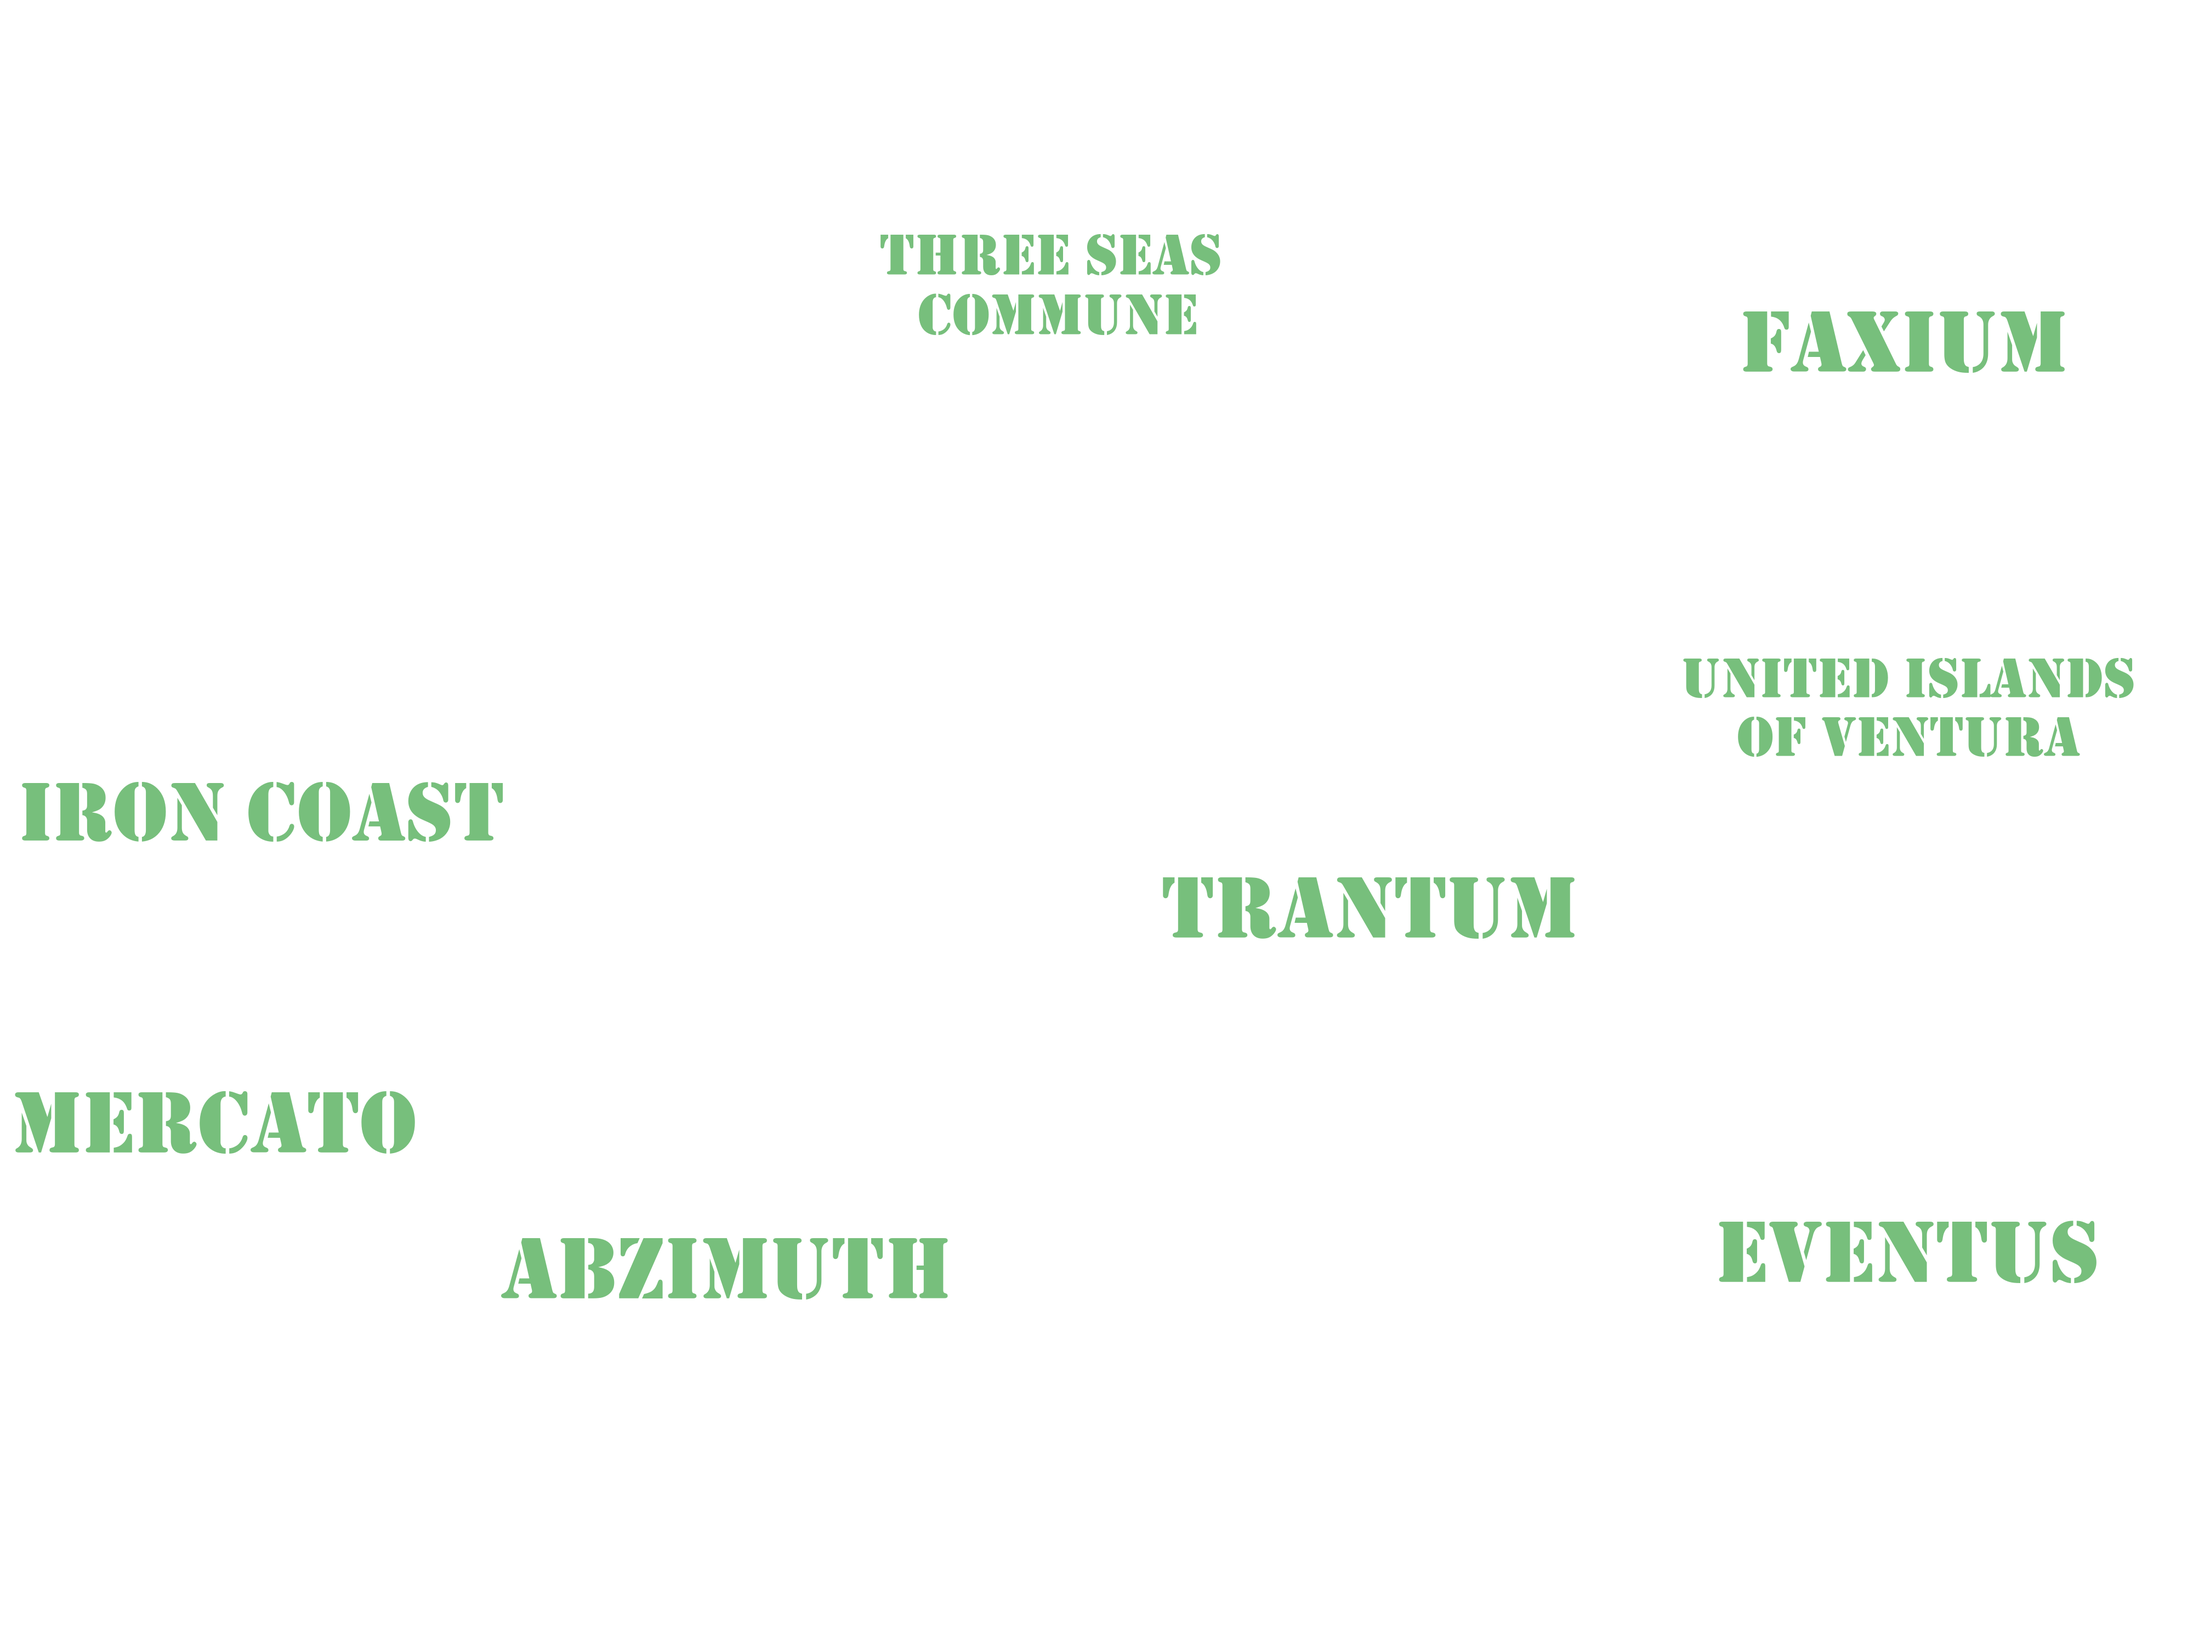
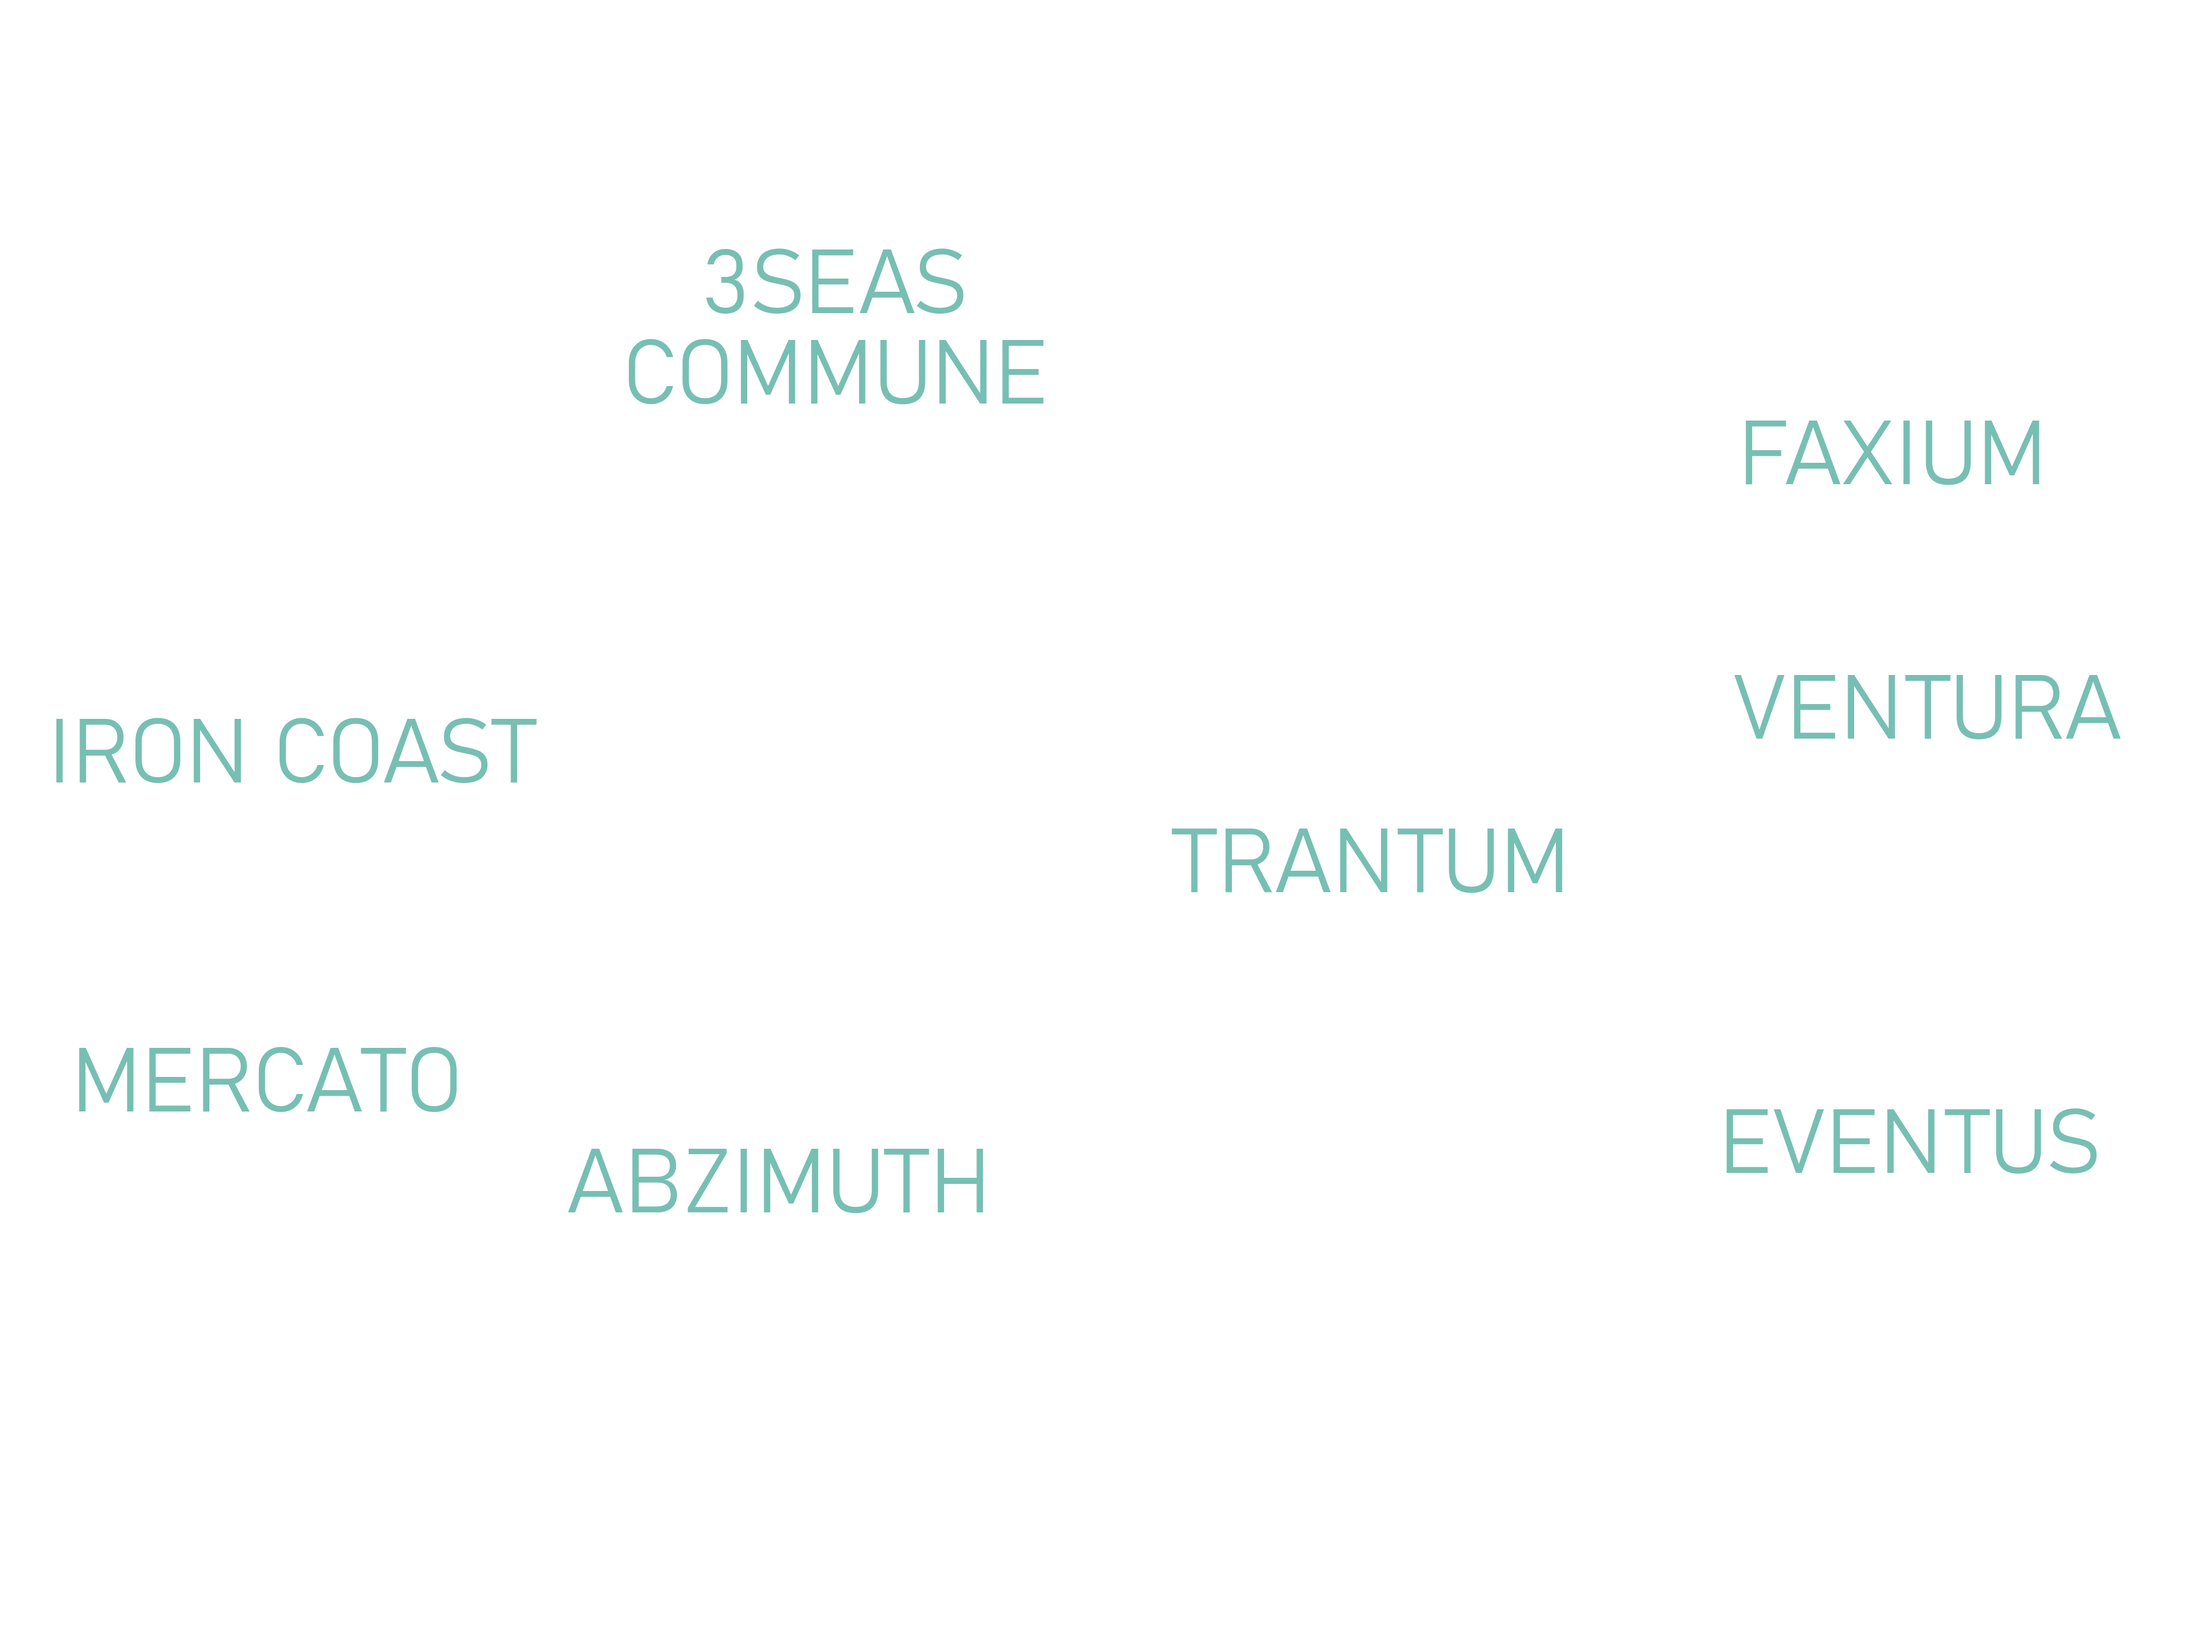
v4
Comes with full UI
mercato layer
text change

diff --git a/script.js b/script.js
@@ -48,7 +48,7 @@ function init() {
 
     const loader = new THREE.TextureLoader();
     const textureSphereBg = loader.load('https://woodandmortar.com/salmonballot/webLayer.png');
-    const texturenucleus = loader.load('https://woodandmortar.com/salmonballot/webLayer.png');
+    const texturenucleus = loader.load('https://woodandmortar.com/salmonballot/coreLayer.png');
     const texturenucleus2 = loader.load('https://woodandmortar.com/salmonballot/baseLayer.png');
     const texturenucleus3 = loader.load('https://woodandmortar.com/salmonballot/earthLayer.png');
     const texturenucleus4 = loader.load('https://woodandmortar.com/salmonballot/buildingLayer.png');
@@ -60,6 +60,7 @@ function init() {
     const texturenucleus10 = loader.load('https://woodandmortar.com/salmonballot/cloudLayer.png');
     const texturenucleus11 = loader.load('https://woodandmortar.com/salmonballot/textLayer.png');
     const texturenucleus12 = loader.load('https://woodandmortar.com/salmonballot/lightLayer.png');
+    const texturenucleus13 = loader.load('https://woodandmortar.com/salmonballot/mercatoLayer.png');
     const textureStar = loader.load("https://woodandmortar.com/salmonballot/jelly.png");
     const texture1 = loader.load("https://woodandmortar.com/salmonballot/jelly.png");
     const texture2 = loader.load("https://woodandmortar.com/salmonballot/jelly2.png");
@@ -267,6 +268,22 @@ setInterval(rotateNucleus10, 5);
 
 
 // End of Copy layer
+
+// Copy Layer
+texturenucleus13.anisotropy = 24;
+const nucleus13Radius = 116 * blobScale; // 10 units larger than the first nucleus
+const icosahedronGeometry13 = new THREE.IcosahedronGeometry(nucleus13Radius, 10);
+const lambertMaterial13 = new THREE.MeshPhongMaterial({
+map: texturenucleus13,
+transparent: true,
+opacity: 0.9,
+});
+const nucleus13 = new THREE.Mesh(icosahedronGeometry13, lambertMaterial13);
+nucleus13.rotation.copy(nucleus.rotation); // Copy rotation from the first nucleus
+scene.add(nucleus13);
+
+// End of Copy layer
+
 // Copy Layer
 texturenucleus12.anisotropy = 24;
 const nucleus12Radius = 119 * blobScale; // 10 units larger than the first nucleus
@@ -284,7 +301,7 @@ scene.add(nucleus12);
 
 // Copy Layer
 texturenucleus11.anisotropy = 24;
-const nucleus11Radius = 150 * blobScale; // 10 units larger than the first nucleus
+const nucleus11Radius = 140 * blobScale; // 10 units larger than the first nucleus
 const icosahedronGeometry11 = new THREE.IcosahedronGeometry(nucleus11Radius, 10);
 const lambertMaterial11 = new THREE.MeshPhongMaterial({
 map: texturenucleus11,
@@ -398,6 +415,24 @@ scene.add(nucleus11);
         controls.update();
     }
 
+    // Variable to store the camera's position
+    let storedCameraPosition = null;
+
+    // Function to update camera position display and the variable
+    function updateCameraPosition() {
+        const cameraPosition = camera.position;
+        storedCameraPosition = cameraPosition.clone(); // Store the camera position in the variable
+
+        // Display the camera position in the <p> element
+        const cameraPositionElement = document.getElementById("cameraPosition");
+        cameraPositionElement.textContent = `X=${cameraPosition.x.toFixed(2)}, Y=${cameraPosition.y.toFixed(2)}, Z=${cameraPosition.z.toFixed(2)}`;
+    }
+
+    // Attach the updateCameraPosition function to the button's click event
+    const updateCameraButton = document.getElementById("updateCameraButton");
+    updateCameraButton.addEventListener("click", updateCameraPosition);
+
+
 
 }
 
@@ -432,7 +467,7 @@ function animate() {
                v.x + time * 0.0005,
                v.y + time * 0.0003,
                v.z + time * 0.0008
-           ) * blobScale;
+           ) * (blobScale/.2);
            v.multiplyScalar(distance);
        })
        nucleus.geometry.verticesNeedUpdate = true;

diff --git a/style.css b/style.css
@@ -22,21 +22,22 @@ canvas {
 h1
 {
   width: 80%;
-  left: -80px;
-  bottom: -80px;
+  left: 0px;
+  top: 0px;
   text-align: center;
+  justify-content: center;
   color: rgba(125,240,250, 0.8);
   position: absolute;
   /* color: white; */
-  font-size:3em;
-  font-family: "Righteous";
+  font-size:2em;
+  font-family: "Crimson Text";
   opacity: .7;
 }
 
 
 p
 {
-  font-family: "Righteous";
+  font-family: "Crimson Text";
   color: rgba(125,240,250, 0.8);
   text-align: center;
   font-size: 1.4em;
@@ -86,13 +87,13 @@ p
   align-items: center; /* Vertically center content */
   justify-content: center; /* Horizontally center content */
   position: absolute;
-  bottom: 0%;
+  top: 0%;
   right: 0px;
 }
 
 #thoseDiv {
   flex: 0 0 auto; /* Don't grow or shrink, maintain original size */
-  width: 20vw;
+  width: 18vw;
   margin: 5px; /* Add some space between items */
 }
 #thoseDiv:hover {
@@ -101,7 +102,7 @@ p
 }
 #thoseDiv1 {
   flex: 0 0 auto; /* Don't grow or shrink, maintain original size */
-  width: 20vw;
+  width: 18vw;
   margin: 5px; /* Add some space between items */
 }
 #thoseDiv1:hover {
@@ -110,10 +111,19 @@ p
 }
 #thoseDiv2 {
   flex: 0 0 auto; /* Don't grow or shrink, maintain original size */
-  width: 20vw;
+  width: 18vw;
   margin: 5px; /* Add some space between items */
 }
 #thoseDiv2:hover {
+  background-color: rgba(125, 240, 250, 0.3);
+  cursor: pointer;
+}
+#updateCameraButton {
+  flex: 0 0 auto; /* Don't grow or shrink, maintain original size */
+  width: 15vw;
+  margin: 5px; /* Add some space between items */
+}
+#updateCameraButton:hover {
   background-color: rgba(125, 240, 250, 0.3);
   cursor: pointer;
 }
@@ -146,8 +156,8 @@ button:hover
   position: absolute;
   width: 20vh;
   height: 20vh;
-  top: 5vw;
-  right: 5vw;
+  bottom: 2vw;
+  right: 2vw;
   background-image: url("https://woodandmortar.com/salmonballot/jelly2.png");
   background-size: cover;
 }

diff --git a/index.html b/index.html
@@ -13,21 +13,24 @@
  </div>
   <div id='thatDiv' class='jitterAnimated'>
     <div id='thoseDiv1' class=' bordered'>
-      <p class="textGlow animated">Open Journal</p>
+      <p class="textGlow animated">Journal</p>
     </div>
-    <div id='thoseDiv2' class=' bordered'>
-<p class="textGlow animated">Close Journal</p>
+    <div id='thoseDiv2' class='bordered'>
+<p class="textGlow animated">Map</p>
 </div>
-<div id='thoseDiv' class=' bordered'>
+<div id='updateCameraButton' class='bordered'>
+<p class="textGlow animated">Locate</p>
+</div>
+<div id='thoseDiv' class='bordered'>
 <p id="centerCameraButton" class="textGlow animated">Zoom</p>
 </div>
-<div id='thoseDiv' class=' bordered'>
-<p id="centerCameraButton2" class="textGlow animated">Restart</p>
+<div id='thoseDiv' class='bordered'>
+<p id="centerCameraButton2" class="textGlow animated">Reset</p>
 </div></div>
 
 
   <div id='rightDiv' class='jitterAnimated bordered'>
-    <h1 id="names" class='textGlow animated'>Introduction</h1>
+    <h1 id="cameraPosition" class='textGlow animated'>Location</h1>
     </p>
   </div>
 
